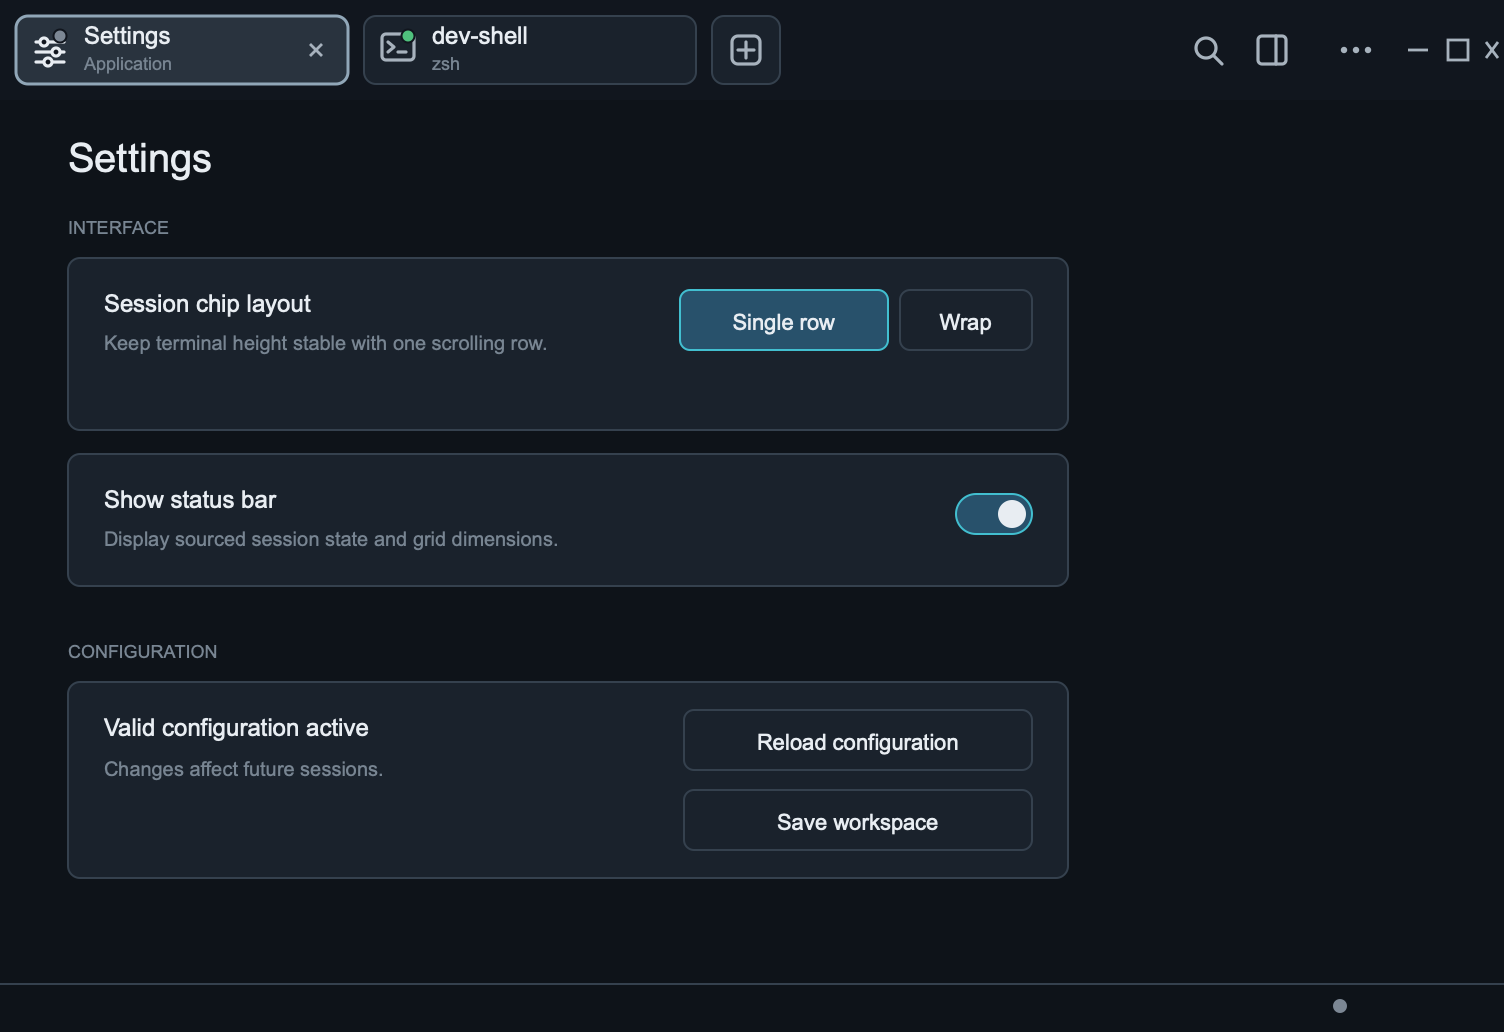
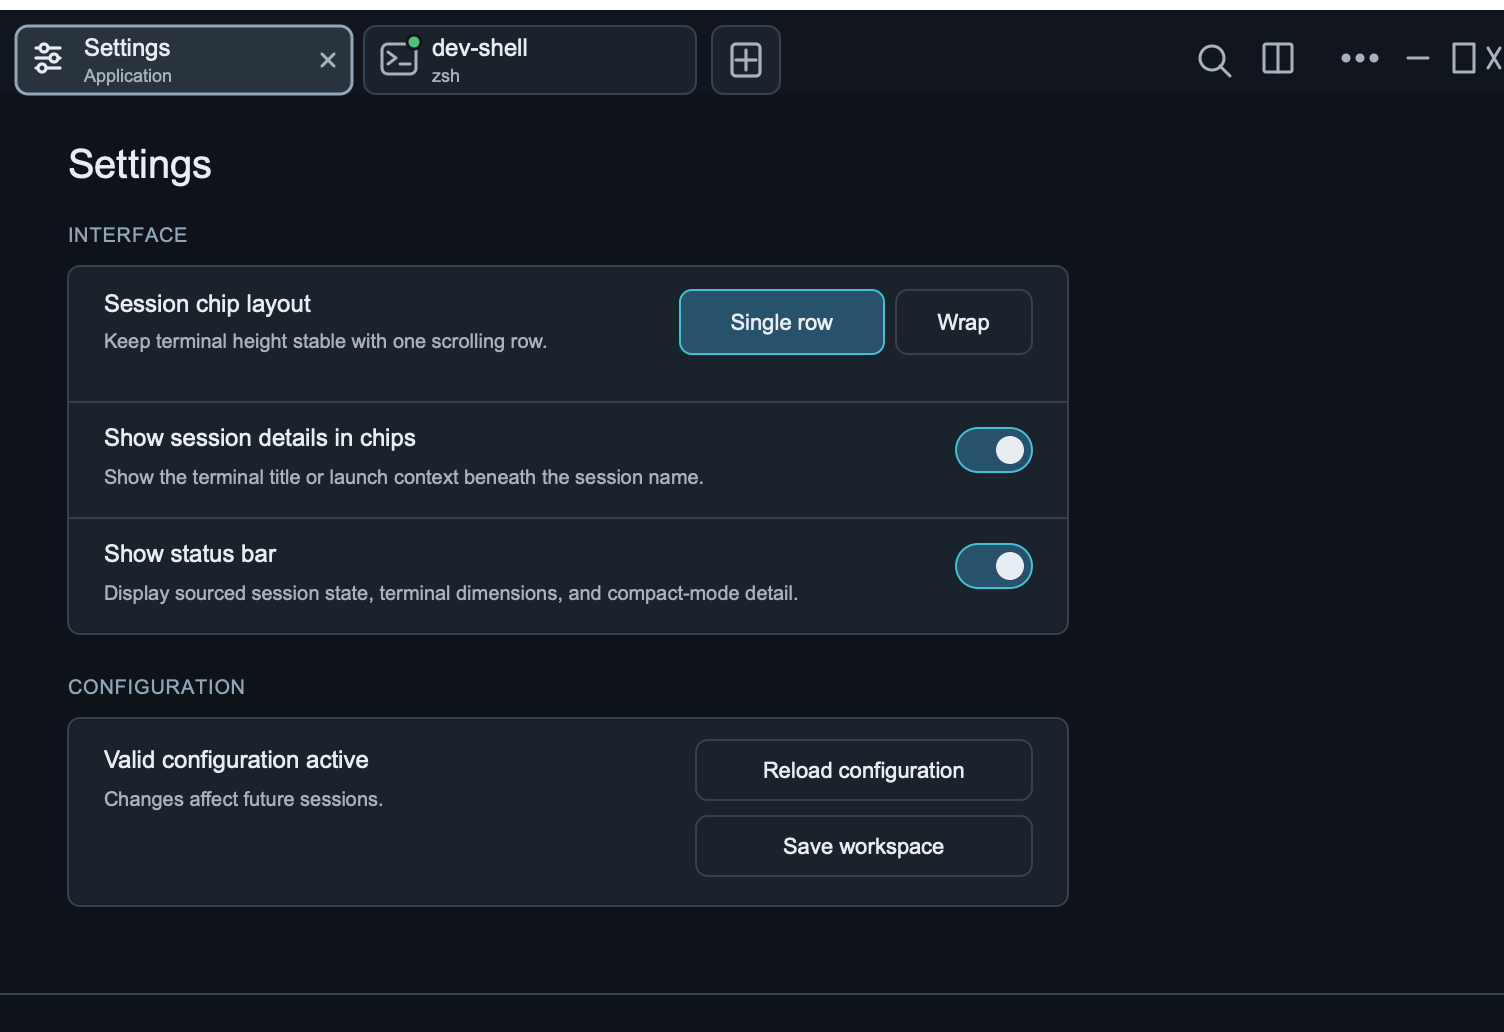
Document compact session chrome

diff --git a/docs/gui-design.md b/docs/gui-design.md
@@ -21,6 +21,11 @@ uses the `360 × 516` minimum-width case. Their stable filenames are intended
 for automated or agent-assisted comparisons against native Windows, macOS, and
 Linux captures.
 
+Editable SVG sources for mockups introduced or revised after this review live
+under `images/gui-mockups/source/`; the adjacent PNG remains the comparison
+artifact. Rasterization must preserve the baseline logical viewport and may
+not silently change prose-owned behavior.
+
 ## Product Posture
 
 fesTerm should feel like a restrained, native-feeling terminal workstation:
@@ -221,6 +226,8 @@ become user-bindable when shortcut customization exists.
 ## Primary Layout
 
 ![Active terminal and integrated chrome target](images/gui-mockups/terminal-active.png)
+
+![Optional compact single-line session chrome target](images/gui-mockups/compact-session-chrome.png)
 
 The default window has three conceptual zones:
 
@@ -504,7 +511,11 @@ strictly factual and nonduplicative:
 | 80×25   Local · Linux                                      ● Running |
 | 80×25   Remote · Linux                                   ● Connected |
 | 80×25   Serial · COM3                                         ● Open |
+| 80×25   Local · macOS   cargo test — fesTerm                ● Running |
 ```
+
+The fourth row is the compact-chip variant; the first three show the default
+two-line-chip mode.
 
 - The left side shows actual measured terminal grid dimensions and locality.
 - The platform is concrete when reliably known: `Windows`, `Linux`, or
@@ -515,7 +526,10 @@ strictly factual and nonduplicative:
   `Connected`, and serial sessions use `Open`; each term describes the fact
   the owning transport can establish without implying a responsive peer.
 - Stable session identity and terminal title remain in the active chip and are
-  not repeated in the bar.
+  not repeated in the bar while session details are shown in chips. When the
+  **Show session details in chips** preference is off, the active session's
+  same sanitized secondary display value moves into the status bar instead;
+  this is the only intentional identity/title exception.
 - Client clock/date, shell version, encoding, line-ending convention, command
   timing, and last-input/output timestamps are absent.
 
@@ -527,6 +541,21 @@ but leave its content empty. The stable footprint prevents vertical layout
 jumps when switching surface types; it does not justify invented `Ready`, app
 identity, time, or dimensions. The subtle top rule may remain. Disabling the
 status-bar preference removes the footer consistently on every surface.
+
+The relocated compact-mode detail sits after dimensions/locality and before
+the right-aligned state. It uses `text.muted`, never scrolls or animates, and
+ellipsizes before dimensions, session type, or lifecycle state are removed.
+Its complete sanitized value remains available to accessibility and hover
+presentation. It follows the same source precedence as chip secondary text:
+terminal-provided title first, then factual launch metadata. It is never named
+or inferred as the “current command,” “last command,” or “last response.” Only
+the active session contributes this value; Launcher and Settings continue to
+have empty footer content.
+
+If both session details and the status bar are disabled, fesTerm does not force
+either surface back on. The secondary value remains available through command
+palette session results, chip hover/accessibility, and Session Inspector. This
+is deliberate user-selected density, not loss of stable session identity.
 
 The terminal viewport itself (`crates/festerm-ui-egui/src/view.rs`) no longer draws its own inline "fesTerm / Diagnostics" header or expandable per-frame diagnostics footer — that duplicated chrome the application already owns and only its grid-dimensions field was in regular use, which now lives in the status bar instead. `TerminalView::show` fills all available space with just the terminal grid; `TerminalView::diagnostics()` remains available for tests and future tooling that need the raw per-frame `FrameDiagnostics`.
 
@@ -983,14 +1012,22 @@ navigation appears only once several real categories exist, and categories,
 controls, and one-option selectors with no implemented choice remain absent.
 
 The truthful initial preference surface contains one compact **Interface**
-section with two controls:
+section with three controls. Related controls are grouped as quiet rows inside
+one section surface, with subtle dividers; separate oversized cards would make
+this small settings surface feel heavier than the terminal chrome it controls.
 
 - **Session chip layout** is an exposed two-choice control: **Single scrolling
   row** (the default, with the explanation that it keeps terminal height
   stable) or **Wrap to multiple rows** (which exposes more sessions but may
   reduce terminal rows).
+- **Show session details in chips** is an on/off switch, on by default. It shows
+  the sanitized terminal title or factual launch context under stable session
+  identity. Turning it off makes every session, Launcher, and Settings chip a
+  compact single-line chip. When the status bar is visible, only the active
+  session's secondary value is shown there under the status-bar rules above.
 - **Show status bar** is an on/off switch, on by default, described factually as
-  displaying sourced session state and terminal dimensions.
+  displaying sourced session state, terminal dimensions, and the active
+  session detail when compact chips require that relocation.
 
 The two layout choices remain visible rather than hiding a binary decision in a
 selector. Reversible settings apply immediately and require no Apply or Save
@@ -1020,6 +1057,13 @@ disruptive changes require a clear consequence before application. Profile,
 credential, and trust-record edits use their own staged and security-aware
 flows. Closing Settings returns focus to the previously active session and
 never restarts sessions; Settings never lives in the session inspector.
+
+The detail and status-bar switches are independent. Changing detail visibility
+does not rewrite a session name, terminal title, profile, or workspace, and it
+does not change the chip width range. A live change produces one coherent
+terminal resize after the chrome height settles; it must not resize once per
+chip or over multiple intermediate frames. Wrapped rows use the selected chip
+height consistently across every row.
 
 ### Configuration recovery
 
@@ -1344,6 +1388,16 @@ monospace font; actual grid dimensions remain renderer-measured and must not
 be forced to those estimates. Chip wrapping and single-row scrolling may
 change the chrome's occupied height when explicitly selected, but neither may
 cover or fragment the terminal viewport.
+
+When **Show session details in chips** is off, the corresponding compact
+geometry is `36` px upper chrome (`8` top inset plus one `28` px chip row),
+`132..220 × 28` session/application chips, and a `28 × 28` New Session
+control. Chip widths deliberately stay in the default range so toggling detail
+does not cause a second horizontal reflow. The 16 px type icon/state badge and
+active close control remain, and every interactive target retains at least the
+icon system's 24 px target. Trailing controls remain vertically centered in the
+occupied band. On macOS the 76 px traffic-light reserve remains unchanged and
+must be reviewed optically against both heights.
 
 ### Semantic color roles
 
@@ -2018,7 +2072,8 @@ command.
 
 When horizontal space is constrained, remove or collapse information in this order:
 
-1. Secondary terminal-provided title.
+1. Secondary terminal-provided title in the chip; when compact detail has been
+   relocated to the status bar, that relocated value ellipsizes first.
 2. Chip width toward its minimum, then stable-identity ellipsis.
 3. Less-used global actions into overflow, starting with terminal Search and
    Session Inspector.
@@ -2183,7 +2238,13 @@ requires a different sequence:
    bundles JetBrains Mono NL 2.304 with four real faces and an independent
    fallback chain. Bundle Inter through the owned application-font layer next,
    retaining fallback contracts.
-6. Schedule the serial backend as a focused capability track with platform
+6. Implement **Show session details in chips** as the presentation-only live
+   preference defined above: grouped Settings row, `34→28` chip geometry,
+   `42→36` single-row chrome geometry, active-only status-bar relocation, and
+   one coalesced terminal resize. Cover `CHIP-11`, `STATUS-03`, `SET-02`, and
+   manual scenario `AS-09`; do not turn it into a general density or theming
+   system.
+7. Schedule the serial backend as a focused capability track with platform
    discovery, permissions, exclusive ownership, and deterministic loopback
    evidence; its GUI contract is already defined here.
 

diff --git a/docs/gui-action-graph.md b/docs/gui-action-graph.md
@@ -203,6 +203,7 @@ backend and platform fixture exist.
 | `CHIP-08` | `K3 → Wrapped` | Settings: Wrap to multiple rows. | Complete 34 px rows resize terminal honestly; ordering unchanged; no overlay/fragmentation. | Select Single scrolling row. | P,H,V,N,U |
 | `CHIP-09` | Long/duplicate identities | Supply long, path-like, duplicate labels/titles. | Reduction order is secondary removal, width reduction, stable ellipsis; full sanitized accessible name/hover; no numeric suffix invention. | Restore fixture names. | H,V,N,accessibility |
 | `CHIP-10` | Any chip state | Inspect visual/accessibility anatomy. | 16 px type identity and separate state badge target; active close only; state conveyed beyond color; neutral chip surfaces and documented active contrast. | No mutation. | H,V,N,U |
+| `CHIP-11` | `K3 → compact K3 → K3` | In Settings, turn **Show session details in chips** off, then on. | All chips change together between `34` px two-line and `28` px single-line geometry; stable identity/type/state/active Close and width range remain; each transition causes one coherent terminal resize and no title/profile mutation. | Restore the default on value. | P,H,V,N,U; target |
 
 ## G. Chrome, native window, menus, and responsive layout
 
@@ -283,8 +284,9 @@ backend and platform fixture exist.
 | `INSP-05` | Error overlay → Inspector diagnostics | Details. | Diagnostics opens expanded with relevant event emphasized when event model exists; overlay state remains truthful; no pause/resize. | Collapse/Close. | H,N; partial |
 | `DIAG-01` | Inspector diagnostics | Inspect/copy details. | Owned lifecycle/generation/timing/grid/buffer/queue/error facts; raw detail collapsed/selectable; bounded summary redacts identity/host/user/path/device/fingerprint/content/secrets. | Clear clipboard and collapse. | P,H,N,privacy |
 | `ERR-01` | Fixture failures | Trigger startup/transport/config/trust/auth failures. | Answers what/which/retry/next action; concise contextual level before details; no whole-terminal telemetry footer. | Take primary recovery or close. | H,V,N,U |
-| `STATUS-01` | `K2/K9/K13/K1/Settings → same` | Observe persistent footer during normal operation and switch surfaces. | Exactly 24 px when enabled; terminal shows sourced grid/locality/state with accessible label; Launcher/Settings preserve empty geometry; no clock, title, encoding, shell, command timing, byte/queue/frame metrics, or duplicate identity. | No mutation; restore original active surface. | P,H,V,N,U |
+| `STATUS-01` | `K2/K9/K13/K1/Settings → same` | Observe persistent footer during normal operation and switch surfaces. | Exactly 24 px when enabled; terminal shows sourced grid/locality/state with accessible label; Launcher/Settings preserve empty geometry; no clock, encoding, shell, command timing, byte/queue/frame metrics, or duplicate identity while chip details are visible. | No mutation; restore original active surface. | P,H,V,N,U |
 | `STATUS-02` | Normal → exceptional → normal | Trigger starting, reconnecting, auth/trust required, startup/transport failure, or diagnostic detail. | Contextual notification appears only while actionable/transitional, near affected session, with truthful primary action; resolving/cancelling removes it without leaving permanent telemetry. | Take safe/primary recovery and prove ordinary quiet state. | P,H,V,N,U |
+| `STATUS-03` | Compact-detail live session → same | Hide chip details with status bar on; change the active terminal title, switch sessions, narrow the window, then turn status bar off. | Only the active sanitized secondary value appears after dimensions/locality and before state; it follows title/fallback precedence, updates without animation, yields before dimensions/type/state, never claims command semantics, and is absent on Launcher/Settings. With both settings off it remains available through palette, hover/accessibility, and Inspector without forcing the footer. | Restore both preferences on and the fixture title. | P,H,V,N,U; target |
 | `BELL-01` | Active session | Emit repeated BEL. | Only badge briefly pulses/coalesces; no window flash, focus/scroll/cursor movement, session switch, sound, or OS notice. Reduced motion uses static change. | Wait bounded expiry. | P,H,V,N,U |
 | `BELL-02` | Inactive session | Emit BEL then ordinary output. | Attention badge + exact secondary until activation; lifecycle state wins; ordinary output adds no unread badge/count. | Activate session; attention clears. | P,H,V,N,U |
 
@@ -293,7 +295,7 @@ backend and platform fixture exist.
 | ID | From → To | Action / guard | Oracle | Return | Layer |
 | --- | --- | --- | --- | --- | --- |
 | `SET-01` | Any → Settings | Open via each route repeatedly. | Singleton chip focused; simple real sections only; terminal sessions continue; no inspector/sidebar/one-choice selectors. | Close Settings; prior session or Launcher active. | P,H,V,N |
-| `SET-02` | Settings → changed → baseline | Change chip layout/status bar. | Reversible change applies immediately, no Apply/Save fiction; footer geometry/content correct across surfaces. | Choose original value; Reset only when persistence/default tracking exists. | P,H,N,U |
+| `SET-02` | Settings → changed → baseline | Change chip layout, session-detail visibility, and status bar. | Three compact grouped Interface rows apply immediately and independently, with no Apply/Save fiction; chrome/footer geometry and content follow their contracts across surfaces. | Choose original values; Reset only when persistence/default tracking exists. | P,H,V,N,U |
 | `SET-03` | Settings → reload result | Reload valid/missing/invalid config. | Complete candidate swaps atomically only on success; existing transports unchanged; source status hides sensitive path. | Reload baseline valid config. | P,H,N |
 | `CONF-01` | Startup → Recovery | Invalid configuration. | “Configuration needs attention”; file unchanged; concise source-owned explanation; supported Open Folder, Copy Details, primary Safe Defaults. | `CONF-02`. | H,V,N,U |
 | `CONF-02` | Recovery → `K1` | Continue with Safe Defaults. | Launcher/terminal usable for run; no overwrite/repair/persistence claim. | Restart with valid disposable config. | P,H,N |
@@ -342,7 +344,7 @@ backend and platform fixture exist.
 | `PRIV-01` | Screenshots/task switcher/window overview | Exercise fixed title and multiple sessions/instances. | Native title and app icon expose only fesTerm; terminal title/host/workspace/bell never leaks into OS title. | Close extra instance. | N,U |
 | `PRIV-02` | Copy diagnostics/version/workspace evidence | Inspect artifact contents. | Redaction/exclusion contracts hold; literal Copy Fingerprint/terminal Copy contain only explicitly selected content. | Delete artifacts and clear clipboard. | P,N,privacy |
 | `PRIV-03` | Focus mode/screenshot/accessibility | Evaluate privacy claims. | No UI calls Focus mode a privacy mode or promises to block OS capture; notifications/sound absent by default. | Exit mode/close capture. | H,N,U |
-| `VIS-01` | Approved baseline states | Compare Launcher, terminal, Settings, Inspector, reconnect, disconnected, dialogs, context menus, narrow state to linked PNGs. | Blue-graphite roles, geometry, hierarchy, density, icon usage, typography, terminal dominance; prose/negotiated deviations override static image. | No mutation; rebuild checkpoint per image. | V,U |
+| `VIS-01` | Approved baseline states | Compare Launcher, terminal, default/compact chrome, Settings, Inspector, reconnect, disconnected, dialogs, context menus, and narrow state to linked PNGs. | Blue-graphite roles, geometry, hierarchy, density, icon usage, typography, terminal dominance; prose/negotiated deviations override static image. | No mutation; rebuild checkpoint per image. | V,U |
 | `NON-01` | All surfaces | Search for out-of-scope affordances. | No split panes, detach/migrate, dashboard/onboarding, disabled promises, automatic URL/path detection, Select All, transcript persistence, generic telemetry, one-option theme/font control, or invented status data. | No mutation. | H,V,U |
 
 ## Q. Post-transport Markdown-viewing decision

diff --git a/docs/manual-validation.md b/docs/manual-validation.md
@@ -86,6 +86,7 @@ possible.
 | AS-06 | Close a live local/SSH session from chip, context menu, shortcut, palette, native menu, and overlay; each opens the same confirmation bound to the intended session. | Native functional + usability | Yes; consequence wording remains human review |
 | AS-07 | With live-close confirmation open, initial Enter does not confirm, Escape cancels without PTY bytes, outside click does not dismiss, and deliberate focus + activation closes exactly the bound session. | Native functional | Yes: UI automation plus controlled PTY/lifecycle oracle |
 | AS-08 | Request application/window quit with multiple live sessions; aggregate consequence is accurate and cancellation leaves every session intact. | Deferred until aggregate quit confirmation | Later |
+| AS-09 | With multiple local/SSH sessions and long/changing titles, toggle **Show session details in chips** at ordinary and narrow widths, with the status bar on and off. Verify one coherent resize per transition; `34→28` px chip and `42→36` px chrome geometry; stable chip identity/type/state/Close targets; only the active detail relocates to the footer; title-first/factual-fallback precedence; ellipsis priority; empty Launcher/Settings footer; and palette/hover/accessibility/Inspector access when both displays are off. Repeat with wrapped rows and on macOS traffic-light chrome. | Native functional + visual + usability + accessibility | Automate preference/state, grid-resize count, geometry, active-value, and narrow screenshots; retain native hit-target, title-churn readability, macOS optical alignment, and screen-reader review |
 
 ### Terminal interaction, history, and overlays
 
